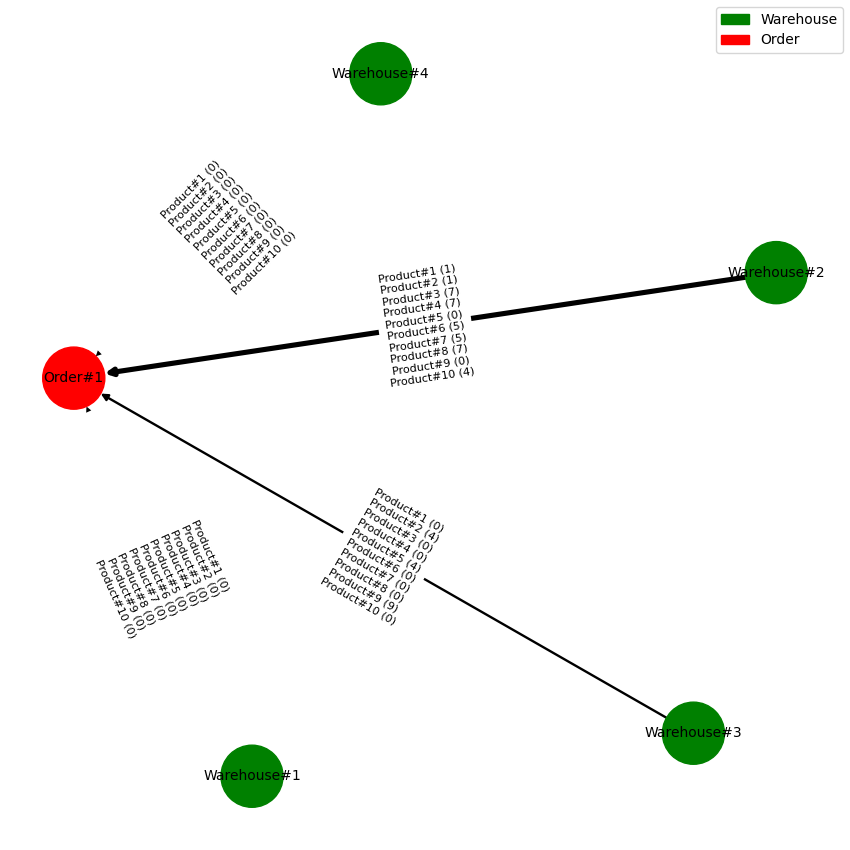
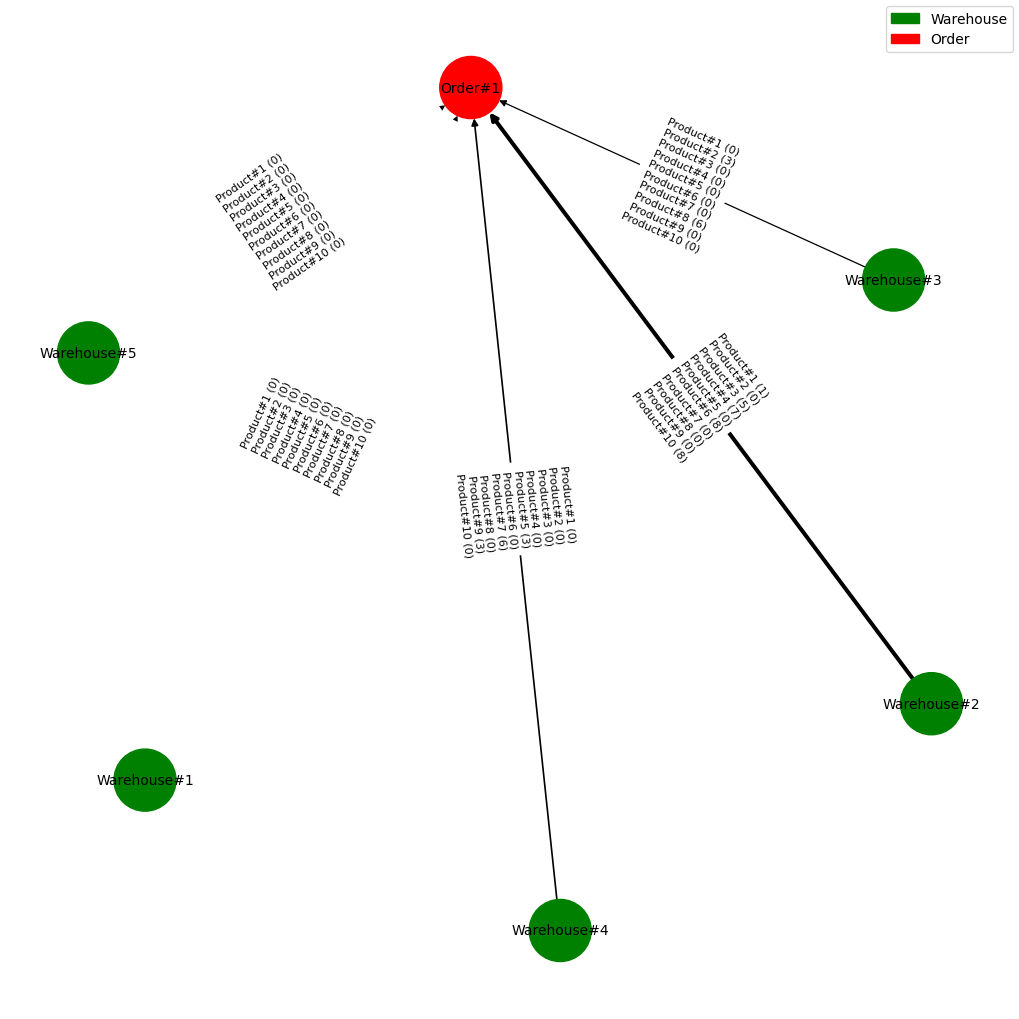
cc

diff --git a/app.py b/app.py
@@ -119,15 +119,14 @@ def run_optimization():
 
         # Close the Pandas Excel writer and output the Excel file.
         writer.close()
-        create_sourcing_graph(fulfillment_solution)
-        return f'Optimization Status: {status}', fulfillment_solution, warehouse_stock_status
-    else:
-        return f'Solution not found!!!! - status is - {status}', gr.update(visible=False), gr.update(visible=False)
 
-def display_gallery():
-    # Get all image files in the 'plots' folder
-    plot_images = [os.path.join("plots", filename) for filename in os.listdir("plots") if filename.endswith(('.png', '.jpg', '.jpeg'))]
-    return plot_images
+        create_sourcing_graph(fulfillment_solution)
+        # Get all image files in the 'plots' folder
+        plot_images = [os.path.join("plots", filename) for filename in os.listdir("plots") if filename.endswith(('.png', '.jpg', '.jpeg'))]
+
+        return f'Optimization Status: {status}', fulfillment_solution, warehouse_stock_status, plot_images
+    else:
+        return f'Solution not found!!!! - status is - {status}', gr.update(visible=False), gr.update(visible=False), gr.update(visible=False)
 
 # Gradio UI
 with gr.Blocks(theme=gr.themes.Soft()) as app:
@@ -153,19 +152,18 @@ with gr.Blocks(theme=gr.themes.Soft()) as app:
                 with gr.TabItem("Results: Warehouse Stock Status"):
                     warehouse_stock_dataframe = gr.Dataframe(label="Warehouse Stock Status")
                 with gr.TabItem("Results: Plots"):
-                    create_plots_button = gr.Button("Create Plots")
-                    gallery_output = gr.Gallery()
+                    gallery_output = gr.Gallery(label="Plots")
 
             # Button bindings
             run_optimization_button.click(run_optimization, inputs=[], 
                                           outputs=[run_optimization_message_output, 
                                                    fulfillment_dataframe, 
-                                                   warehouse_stock_dataframe])
+                                                   warehouse_stock_dataframe,
+                                                   gallery_output])
             save_Weightage_button.click(save_weightage, 
                                         inputs=[run_weightage_Cost, run_weightage_Priority, 
                                                 run_weightage_distance, run_weightage_days], 
                                         outputs=weightage_message_output)
-            create_plots_button.click(fn=display_gallery, inputs=None, outputs=gallery_output)
 
         with gr.TabItem("View/Edit Data"):
             gr.Markdown("""### View/Edit Data\nSelect a sheet to view and edit data.""")
